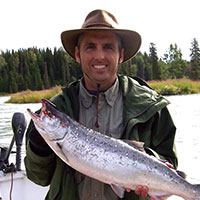
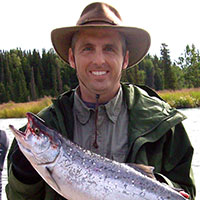
Updated personal author image and size.

diff --git a/dist/css/styles.min.css b/dist/css/styles.min.css
@@ -1,1 +1,1 @@
-.alert,.well{padding:1rem}.btn,a,a>*{transition:all .2s}.primary{color:#333}.primary-bg{background:#333}.secondary{color:#0A3348}.secondary-bg{background:#0A3348}@keyframes slideInTop{0%{opacity:0;height:auto;max-height:0}50%{height:auto;max-height:200px;opacity:0;transform:translate3d(0,-10px,0)}100%{opacity:1;transform:translate3d(0,0,0)}}.center{text-align:center}.well{background:#f5f5f5;border-bottom:2px solid #ddd}.well :last-child{margin-bottom:.2rem}.alert{font-size:.8rem;font-family:Arial,Helvetica,sans-serif;background:#ddd}.alert-success{background:#D5EBCE}.alert-error{background:#FCDCDC}.long-page-nav{font-size:.9rem;margin-top:-.8rem;margin-bottom:2.4rem}.checklist{list-style:none;margin-left:0}.checklist .icon--check{position:absolute;left:3px;top:1px;margin-right:.16rem}.checklist li{position:relative;padding-left:1.6rem}.checklist li:before{content:'';position:absolute;top:7px;left:3px;width:15px;height:15px;background:#fff;border:1px solid #ddd}a,abbr,acronym,address,applet,big,blockquote,body,caption,cite,code,dd,del,dfn,div,dl,dt,em,fieldset,font,form,h1,h2,h3,h4,h5,h6,html,iframe,ins,kbd,label,legend,li,object,ol,p,pre,q,s,samp,small,span,strike,strong,sub,sup,table,tbody,td,tfoot,th,thead,tr,tt,ul,var{border:0;font-family:inherit;font-size:100%;font-style:inherit;font-weight:inherit;margin:0;outline:0;padding:0;vertical-align:baseline}html{overflow-y:scroll;-webkit-text-size-adjust:100%;-ms-text-size-adjust:100%}body{background:#fff;overflow:hidden}article,aside,details,figcaption,figure,footer,header,nav,section{display:block}table{border-collapse:separate;border-spacing:0}caption,td,th{font-weight:400;text-align:left}blockquote:after,blockquote:before,q:after,q:before{content:""}blockquote,q{quotes:"" ""}a:focus{outline:dotted thin}a:active,a:hover{outline:0}a img{border:0}*,:after,:before{box-sizing:inherit}.screen-reader-text{clip:rect(1px,1px,1px,1px);position:absolute!important;height:1px;width:1px;overflow:hidden}.article__extra-header-info,.icon{position:relative}.screen-reader-text:focus{background-color:#ddd;border-radius:3px;box-shadow:0 0 2px 2px rgba(0,0,0,.6);clip:auto!important;color:#444;display:block;font-size:1.2rem;font-weight:700;height:auto;left:5px;line-height:normal;padding:15px 23px 14px;text-decoration:none;top:5px;width:auto;z-index:100000}body,h1,h2,h3,h4,h5,h6{font-family:adobe-text-pro,georgia,times,serif;color:#333;font-weight:400}body,pre{line-height:1.6}.author:after,.clr:after,.container:after,.group:after,.row:after{content:"";display:table;clear:both}.container,.row{max-width:640px;margin-left:auto;margin-right:auto;padding-left:20px;padding-right:20px}@media screen and (min-width:34rem){.container--wide,.row--wide{max-width:840px}}img,pre{max-width:100%}html{box-sizing:border-box;font-size:19px}body{padding-top:1rem;font-size:1.2rem}@media screen and (min-width:34rem){body{font-size:1.3rem}}h1,h2,h3,h4,h5,h6{clear:both;margin:0 0 .2rem;line-height:1.2}h1{font-size:2.8rem}@media screen and (min-width:34rem){h1{font-size:3.2rem}}h2{font-size:1.9rem}@media screen and (min-width:34rem){h2{font-size:2.2rem}}h3{font-size:1.475rem}h4{font-size:1.3rem}h5{font-size:1.125rem}h6,ol,p,ul{font-size:1rem}p+h1,p+h2,p+h3,p+h4,p+h5,p+h6,ul+h1,ul+h2,ul+h3,ul+h4,ul+h5,ul+h6{margin-top:1.8rem}p{margin-bottom:1.6rem;font-weight:300}ol,ul{margin:0 0 1.6rem 1.28rem}ul{list-style:disc}ol{list-style:decimal}li>ol,li>ul{margin-bottom:0;margin-left:1.6rem}b,strong{font-weight:700}cite,dfn,rem{font-family:georgia,times,serif;font-style:italic}pre{background:#eee;font-family:"Courier 10 Pitch",Courier,monospace;font-size:.95rem;margin-bottom:1.6rem;padding:1.6rem;overflow:auto}code,kbd,tt,var{font:.95rem Monaco,Consolas,"Andale Mono","DejaVu Sans Mono",monospace}.btn,input[type=text],label,textarea{font-family:adobe-text-pro,georgia,times,serif}figure{margin:0}img{height:auto}label{display:block;font-size:.75rem}input[type=text],textarea{font-size:.85rem;padding:.375rem;border:1px solid #bbb;border-bottom:1px solid #999;border-radius:3px;min-width:275px;margin-bottom:1.2rem}textarea{width:100%}a{color:#007ab8;text-decoration:none;-ms-touch-action:manipulation;touch-action:manipulation}a:active,a:focus,a:hover{color:#005885}.hint{font-size:.9rem;color:#595959}.dropcap{float:left;font-size:6rem;line-height:.79;margin-top:-1.7rem;padding:0 .25rem 0 0}article h3{margin-bottom:.2rem}.btn{color:#fff;background:#333;border:none;font-size:.85rem;cursor:pointer;padding:.75rem 1.6rem}.btn:focus,.btn:hover{border:none;color:#fff;background:#1a1a1a}.btn:active{color:#fff;background:#4d4d4d}.icon{height:1.15em;width:1.15em;top:.15em;fill:#333}a .icon,a:visited .icon{fill:#007ab8}a:hover{fill:#005885}header[role=banner]{margin-bottom:.8rem}.site-title{font-size:1.15rem;border-bottom:2px solid #333}.about-trust-project .article__header{margin-top:1.6rem}.about-trust-project .icon--trust-project{font-size:2.8rem}.about-trust-project .trust-project__title{font-size:.9rem}@media screen and (min-width:34rem){article{margin:0 1.6rem}}.article__header{margin-bottom:1rem}@media screen and (min-width:24rem){.article__extra-header-info .trust-project{position:absolute;right:0;top:.8rem}}.article__extra-header-info .trust-project a{display:-ms-flexbox;display:flex}.article__extra-header-info .icon--trust-project{font-size:2rem;margin-bottom:1rem}.article__extra-header-info .trust-project__title-wrap{width:65px}.article__extra-header-info .trust-project__title{font-size:.65rem;line-height:1.2;top:0;width:95%;padding-bottom:.1rem;border-bottom:1px solid #ddd;display:block}.article__extra-header-info .trust-project__learn-more{font-size:.65rem;margin:0;line-height:1.4}.article__title{font-size:1.8rem}@media screen and (min-width:34rem){.article__title{font-size:2.4rem;margin-top:.2rem;margin-bottom:.6rem}}.article-img{display:block;margin:0 auto 1.6rem}@media screen and (min-width:34rem){.article-img{max-width:150%;margin-left:-20%}}.trust-project a .trust-project__title{color:#007ab8}.trust-project a .icon{fill:#007ab8}.trust-project a:hover .trust-project__title{color:#005885}.trust-project a:hover .icon{fill:#005885}.trust-project__title{display:inline-block;text-transform:uppercase;font-size:.75rem;width:65px;margin:0;position:relative;top:.65em}.icon--trust-project{font-size:2.2rem;float:left;margin-right:.4rem;top:0}.featured-image{margin-top:1.6rem}@media screen and (min-width:34rem){.featured-image{margin-bottom:3.2rem}}.featured-image img{margin-bottom:0}.featured-image figcaption{font-size:.8rem}.byline{font-size:.75rem;margin-bottom:.96rem;color:#535353}.behind-the-story{margin:3.2rem 0}.behind-the-story .behind-the-story__title{font-size:1.4rem;border-bottom:1px solid #bbb;margin-bottom:1.6rem}.behind-the-story h3{font-size:1.15rem}.trust-indicators{margin-bottom:1.6rem;border-bottom:1px solid #000}.trust-project--callout{margin-top:3.2rem;margin-right:0;margin-left:0;border-top:1px solid #ccc;border-bottom:1px solid #ccc;padding:.8rem}.trust-project-callout__logo{margin-bottom:1.28rem}.trust-project-callout__content p{font-size:.85rem}.trust-project-callout__content p:last-of-type{margin-bottom:0}.colophon{margin-top:1.6rem;padding-bottom:1rem}.colophon .row{border-top:1px solid #333;padding:1rem 0 0}.colophon .copyright{margin-bottom:0;font-size:.85rem}.social-share{list-style:none;margin:1rem 0 0}.social-share .social-share__item{font-family:Arial,'helvetica neue',Helvetica,sans-serif;display:inline-block;margin-right:.2rem;margin-bottom:1rem}.author__button,.comments-section .comment-info{font-family:adobe-text-pro,georgia,times,serif}.social-share .social-share__link{color:#fff;padding:.7rem 1rem .7rem 1.2rem;background:#ddd;font-size:.75rem}.social-share .social-share__link--facebook{background:#3b5998;padding-left:1rem}.social-share .social-share__link--twitter{background:#4099ff}.social-share .icon-social{position:relative;top:.4rem;left:-.4rem;font-size:1rem}.social-share .icon-social--facebook{left:-.2rem}.social-share svg{width:1.3em;height:1.3em;fill:#fff}.show-comments-wrap{margin:1.6rem 0;padding:3.2rem 0 1.6rem;text-align:center;border-top:1px solid #333;font-size:.9rem}.comments-section{margin-top:5rem;margin-bottom:1.6rem}.comments-section .comments{list-style:none;margin:0}.comments-section .comment-section-title{font-size:1rem;border-bottom:2px solid #333}.comments-section .comment{border-top:1px solid #999;padding-top:1.6rem;padding-bottom:1.6rem}@media screen and (min-width:34rem){.comments-section .comment{padding-left:.6rem;padding-right:.6rem}}.comments-section .comment:first-child{border-top:none}.comments-section .comment-info{font-size:.8rem;margin-bottom:0}.comments-section .comment-name{font-weight:700;margin-right:.375rem}.comments-section .comment-time{font-size:.8rem;color:#999}.new-comment{margin-top:1rem}.new-comment .add-comment-title{font-size:1rem;border-bottom:2px solid #333}.new-comment .add-comment{padding:1rem 0}@media screen and (min-width:34rem){.new-comment .add-comment{margin:0 auto;width:80%}}#feedback{margin-bottom:1.6rem}.author{display:block;margin-bottom:.8rem}.author__image{border-radius:50%;width:100px;height:100px;margin-right:.64rem;margin-bottom:.32rem;float:left}.author__content :last-child,.author__facts,.author__job{margin-bottom:0}.author__button,.author__job,.author__name{line-height:1.4}.author__name{font-size:.8rem;margin:0;position:relative;padding-top:2rem}.author__job{font-size:.725rem;color:#535353}.author__button{color:#007ab8;background:0 0;border:none;cursor:pointer;font-size:.8rem;display:block;padding:0}.author__button:hover{color:#005885;background:0 0;border:none}.author__content{margin-top:.64rem}.author__content p,.author__content ul{font-size:.85rem}.author__content h4{margin-top:0;font-size:1rem}.author__facts{margin-top:1.6rem;list-style:none;margin-left:0}.author__bio,.author__facts li{margin-bottom:.8rem}@media screen and (min-width:34rem){.author__facts{display:-ms-flexbox;display:flex;-ms-flex-wrap:wrap;flex-wrap:wrap}.author__facts li{width:47%}.author__facts li:nth-child(2n+0){margin-right:6%}}
+.alert,.well{padding:1rem}.btn,a,a>*{transition:all .2s}.primary{color:#333}.primary-bg{background:#333}.secondary{color:#0A3348}.secondary-bg{background:#0A3348}@keyframes slideInTop{0%{opacity:0;height:auto;max-height:0}50%{height:auto;max-height:200px;opacity:0;transform:translate3d(0,-10px,0)}100%{opacity:1;transform:translate3d(0,0,0)}}.center{text-align:center}.well{background:#f5f5f5;border-bottom:2px solid #ddd}.well :last-child{margin-bottom:.2rem}.alert{font-size:.8rem;font-family:Arial,Helvetica,sans-serif;background:#ddd}.alert-success{background:#D5EBCE}.alert-error{background:#FCDCDC}.long-page-nav{font-size:.9rem;margin-top:-.8rem;margin-bottom:2.4rem}.checklist{list-style:none;margin-left:0}.checklist .icon--check{position:absolute;left:3px;top:1px;margin-right:.16rem}.checklist li{position:relative;padding-left:1.6rem}.checklist li:before{content:'';position:absolute;top:7px;left:3px;width:15px;height:15px;background:#fff;border:1px solid #ddd}a,abbr,acronym,address,applet,big,blockquote,body,caption,cite,code,dd,del,dfn,div,dl,dt,em,fieldset,font,form,h1,h2,h3,h4,h5,h6,html,iframe,ins,kbd,label,legend,li,object,ol,p,pre,q,s,samp,small,span,strike,strong,sub,sup,table,tbody,td,tfoot,th,thead,tr,tt,ul,var{border:0;font-family:inherit;font-size:100%;font-style:inherit;font-weight:inherit;margin:0;outline:0;padding:0;vertical-align:baseline}html{overflow-y:scroll;-webkit-text-size-adjust:100%;-ms-text-size-adjust:100%}body{background:#fff;overflow:hidden}article,aside,details,figcaption,figure,footer,header,nav,section{display:block}table{border-collapse:separate;border-spacing:0}caption,td,th{font-weight:400;text-align:left}blockquote:after,blockquote:before,q:after,q:before{content:""}blockquote,q{quotes:"" ""}a:focus{outline:dotted thin}a:active,a:hover{outline:0}a img{border:0}*,:after,:before{box-sizing:inherit}.screen-reader-text{clip:rect(1px,1px,1px,1px);position:absolute!important;height:1px;width:1px;overflow:hidden}.article__extra-header-info,.icon{position:relative}.screen-reader-text:focus{background-color:#ddd;border-radius:3px;box-shadow:0 0 2px 2px rgba(0,0,0,.6);clip:auto!important;color:#444;display:block;font-size:1.2rem;font-weight:700;height:auto;left:5px;line-height:normal;padding:15px 23px 14px;text-decoration:none;top:5px;width:auto;z-index:100000}body,h1,h2,h3,h4,h5,h6{font-family:adobe-text-pro,georgia,times,serif;color:#333;font-weight:400}body,pre{line-height:1.6}.author:after,.clr:after,.container:after,.group:after,.row:after{content:"";display:table;clear:both}.container,.row{max-width:640px;margin-left:auto;margin-right:auto;padding-left:20px;padding-right:20px}@media screen and (min-width:34rem){.container--wide,.row--wide{max-width:840px}}img,pre{max-width:100%}html{box-sizing:border-box;font-size:19px}body{padding-top:1rem;font-size:1.2rem}@media screen and (min-width:34rem){body{font-size:1.3rem}}h1,h2,h3,h4,h5,h6{clear:both;margin:0 0 .2rem;line-height:1.2}h1{font-size:2.8rem}@media screen and (min-width:34rem){h1{font-size:3.2rem}}h2{font-size:1.9rem}@media screen and (min-width:34rem){h2{font-size:2.2rem}}h3{font-size:1.475rem}h4{font-size:1.3rem}h5{font-size:1.125rem}h6,ol,p,ul{font-size:1rem}p+h1,p+h2,p+h3,p+h4,p+h5,p+h6,ul+h1,ul+h2,ul+h3,ul+h4,ul+h5,ul+h6{margin-top:1.8rem}p{margin-bottom:1.6rem;font-weight:300}ol,ul{margin:0 0 1.6rem 1.28rem}ul{list-style:disc}ol{list-style:decimal}li>ol,li>ul{margin-bottom:0;margin-left:1.6rem}b,strong{font-weight:700}cite,dfn,rem{font-family:georgia,times,serif;font-style:italic}pre{background:#eee;font-family:"Courier 10 Pitch",Courier,monospace;font-size:.95rem;margin-bottom:1.6rem;padding:1.6rem;overflow:auto}code,kbd,tt,var{font:.95rem Monaco,Consolas,"Andale Mono","DejaVu Sans Mono",monospace}.btn,input[type=text],label,textarea{font-family:adobe-text-pro,georgia,times,serif}figure{margin:0}img{height:auto}label{display:block;font-size:.75rem}input[type=text],textarea{font-size:.85rem;padding:.375rem;border:1px solid #bbb;border-bottom:1px solid #999;border-radius:3px;min-width:275px;margin-bottom:1.2rem}textarea{width:100%}a{color:#007ab8;text-decoration:none;-ms-touch-action:manipulation;touch-action:manipulation}a:active,a:focus,a:hover{color:#005885}.hint{font-size:.9rem;color:#595959}.dropcap{float:left;font-size:6rem;line-height:.79;margin-top:-1.7rem;padding:0 .25rem 0 0}article h3{margin-bottom:.2rem}.btn{color:#fff;background:#333;border:none;font-size:.85rem;cursor:pointer;padding:.75rem 1.6rem}.btn:focus,.btn:hover{border:none;color:#fff;background:#1a1a1a}.btn:active{color:#fff;background:#4d4d4d}.icon{height:1.15em;width:1.15em;top:.15em;fill:#333}a .icon,a:visited .icon{fill:#007ab8}a:hover{fill:#005885}header[role=banner]{margin-bottom:.8rem}.site-title{font-size:1.15rem;border-bottom:2px solid #333}.about-trust-project .article__header{margin-top:1.6rem}.about-trust-project .icon--trust-project{font-size:2.8rem}.about-trust-project .trust-project__title{font-size:.9rem}@media screen and (min-width:34rem){article{margin:0 1.6rem}}.article__header{margin-bottom:1rem}@media screen and (min-width:24rem){.article__extra-header-info .trust-project{position:absolute;right:0;top:.8rem}}.article__extra-header-info .trust-project a{display:-ms-flexbox;display:flex}.article__extra-header-info .icon--trust-project{font-size:2rem;margin-bottom:1rem}.article__extra-header-info .trust-project__title-wrap{width:65px}.article__extra-header-info .trust-project__title{font-size:.65rem;line-height:1.2;top:0;width:95%;padding-bottom:.1rem;border-bottom:1px solid #ddd;display:block}.article__extra-header-info .trust-project__learn-more{font-size:.65rem;margin:0;line-height:1.4}.article__title{font-size:1.8rem}@media screen and (min-width:34rem){.article__title{font-size:2.4rem;margin-top:.2rem;margin-bottom:.6rem}}.article-img{display:block;margin:0 auto 1.6rem}@media screen and (min-width:34rem){.article-img{max-width:150%;margin-left:-20%}}.trust-project a .trust-project__title{color:#007ab8}.trust-project a .icon{fill:#007ab8}.trust-project a:hover .trust-project__title{color:#005885}.trust-project a:hover .icon{fill:#005885}.trust-project__title{display:inline-block;text-transform:uppercase;font-size:.75rem;width:65px;margin:0;position:relative;top:.65em}.icon--trust-project{font-size:2.2rem;float:left;margin-right:.4rem;top:0}.featured-image{margin-top:1.6rem}@media screen and (min-width:34rem){.featured-image{margin-bottom:3.2rem}}.featured-image img{margin-bottom:0}.featured-image figcaption{font-size:.8rem}.byline{font-size:.75rem;margin-bottom:.96rem;color:#535353}.behind-the-story{margin:3.2rem 0}.behind-the-story .behind-the-story__title{font-size:1.4rem;border-bottom:1px solid #bbb;margin-bottom:1.6rem}.behind-the-story h3{font-size:1.15rem}.trust-indicators{margin-bottom:1.6rem;border-bottom:1px solid #000}.trust-project--callout{margin-top:3.2rem;margin-right:0;margin-left:0;border-top:1px solid #ccc;border-bottom:1px solid #ccc;padding:.8rem}.trust-project-callout__logo{margin-bottom:1.28rem}.trust-project-callout__content p{font-size:.85rem}.trust-project-callout__content p:last-of-type{margin-bottom:0}.colophon{margin-top:1.6rem;padding-bottom:1rem}.colophon .row{border-top:1px solid #333;padding:1rem 0 0}.colophon .copyright{margin-bottom:0;font-size:.85rem}.social-share{list-style:none;margin:1rem 0 0}.social-share .social-share__item{font-family:Arial,'helvetica neue',Helvetica,sans-serif;display:inline-block;margin-right:.2rem;margin-bottom:1rem}.author__button,.comments-section .comment-info{font-family:adobe-text-pro,georgia,times,serif}.social-share .social-share__link{color:#fff;padding:.7rem 1rem .7rem 1.2rem;background:#ddd;font-size:.75rem}.social-share .social-share__link--facebook{background:#3b5998;padding-left:1rem}.social-share .social-share__link--twitter{background:#4099ff}.social-share .icon-social{position:relative;top:.4rem;left:-.4rem;font-size:1rem}.social-share .icon-social--facebook{left:-.2rem}.social-share svg{width:1.3em;height:1.3em;fill:#fff}.show-comments-wrap{margin:1.6rem 0;padding:3.2rem 0 1.6rem;text-align:center;border-top:1px solid #333;font-size:.9rem}.comments-section{margin-top:5rem;margin-bottom:1.6rem}.comments-section .comments{list-style:none;margin:0}.comments-section .comment-section-title{font-size:1rem;border-bottom:2px solid #333}.comments-section .comment{border-top:1px solid #999;padding-top:1.6rem;padding-bottom:1.6rem}@media screen and (min-width:34rem){.comments-section .comment{padding-left:.6rem;padding-right:.6rem}}.comments-section .comment:first-child{border-top:none}.comments-section .comment-info{font-size:.8rem;margin-bottom:0}.comments-section .comment-name{font-weight:700;margin-right:.375rem}.comments-section .comment-time{font-size:.8rem;color:#999}.new-comment{margin-top:1rem}.new-comment .add-comment-title{font-size:1rem;border-bottom:2px solid #333}.new-comment .add-comment{padding:1rem 0}@media screen and (min-width:34rem){.new-comment .add-comment{margin:0 auto;width:80%}}#feedback{margin-bottom:1.6rem}.author{display:block;margin-bottom:.8rem}.author__basics{display:-ms-flexbox;display:flex;-ms-flex-align:end;align-items:flex-end}.author__image{border-radius:50%;width:125px;height:125px;margin-right:.64rem}.author__button,.author__job,.author__name{line-height:1.4}.author__byline{margin-bottom:1.6rem}.author__content :last-child,.author__facts,.author__job{margin-bottom:0}.author__name{font-size:.8rem;margin:0}.author__job{font-size:.725rem;color:#535353}.author__button{color:#007ab8;background:0 0;border:none;cursor:pointer;font-size:.8rem;display:block;padding:0}.author__button:hover{color:#005885;background:0 0;border:none}.author__content{margin-top:-.8rem}.author__content p,.author__content ul{font-size:.85rem}.author__content h4{margin-top:0;font-size:1rem}.author__facts{margin-top:1.6rem;list-style:none;margin-left:0}.author__bio,.author__facts li{margin-bottom:.8rem}@media screen and (min-width:34rem){.author__facts{display:-ms-flexbox;display:flex;-ms-flex-wrap:wrap;flex-wrap:wrap}.author__facts li{width:47%}.author__facts li:nth-child(2n+0){margin-right:6%}}

diff --git a/assets/sass/_author.scss b/assets/sass/_author.scss
@@ -5,13 +5,16 @@
     @extend %clearfix;
 }
 
+.author__basics {
+    display: flex;
+    align-items: flex-end;
+}
+
 .author__image {
     border-radius: 50%;
-    width: 100px;
-    height: 100px;
+    width: 125px;
+    height: 125px;
     margin-right: $spacing__base * 0.4;
-    margin-bottom: $spacing__base * 0.2;
-    float: left;
 }
 
 .author__name,
@@ -20,11 +23,13 @@
     line-height: 1.4;
 }
 
+.author__byline {
+    margin-bottom: $spacing__base;
+}
+
 .author__name {
     font-size: 0.8rem;
     margin: 0;
-    position: relative;
-    padding-top: 2rem;
 }
 
 .author__job {
@@ -43,7 +48,7 @@
 
 .author__content {
 
-    margin-top: $spacing__base * 0.4;
+    margin-top: $spacing__base * -0.5;
 
     p, ul {
         font-size: 0.85rem;

diff --git a/articles/includes/main.php b/articles/includes/main.php
@@ -9,11 +9,15 @@
             <p class="byline">Posted on <time pubdate="pubdate"><?php echo $article['pubdate'];?></time></p>
             <div class="article__extra-header-info">
                 <div class="author">
-                    <?php if(!empty($author['image']['src'])) { ?>
-                    <img class="author__image" src="<?php echo $author['image']['src'];?>" alt="<?php echo $author['image']['alt'];?>" />
-                    <?php } ?>
-                    <p class="author__name">By <?php echo $author['name'];?></p>
-                    <p class="author__job"><?php echo SITE_NAME;?> Staff Reporter</p>
+                    <div class="author__basics">
+                        <?php if(!empty($author['image']['src'])) { ?>
+                        <img class="author__image" src="<?php echo $author['image']['src'];?>" alt="<?php echo $author['image']['alt'];?>" />
+                        <?php } ?>
+                        <div class="author__byline">
+                            <p class="author__name">By <?php echo $author['name'];?></p>
+                            <p class="author__job"><?php echo SITE_NAME;?> Staff Reporter</p>
+                        </div>
+                    </div>
                     <?php if(!empty($author['bio'])) {include('author-bio.php');}?>
                 </div>
 
